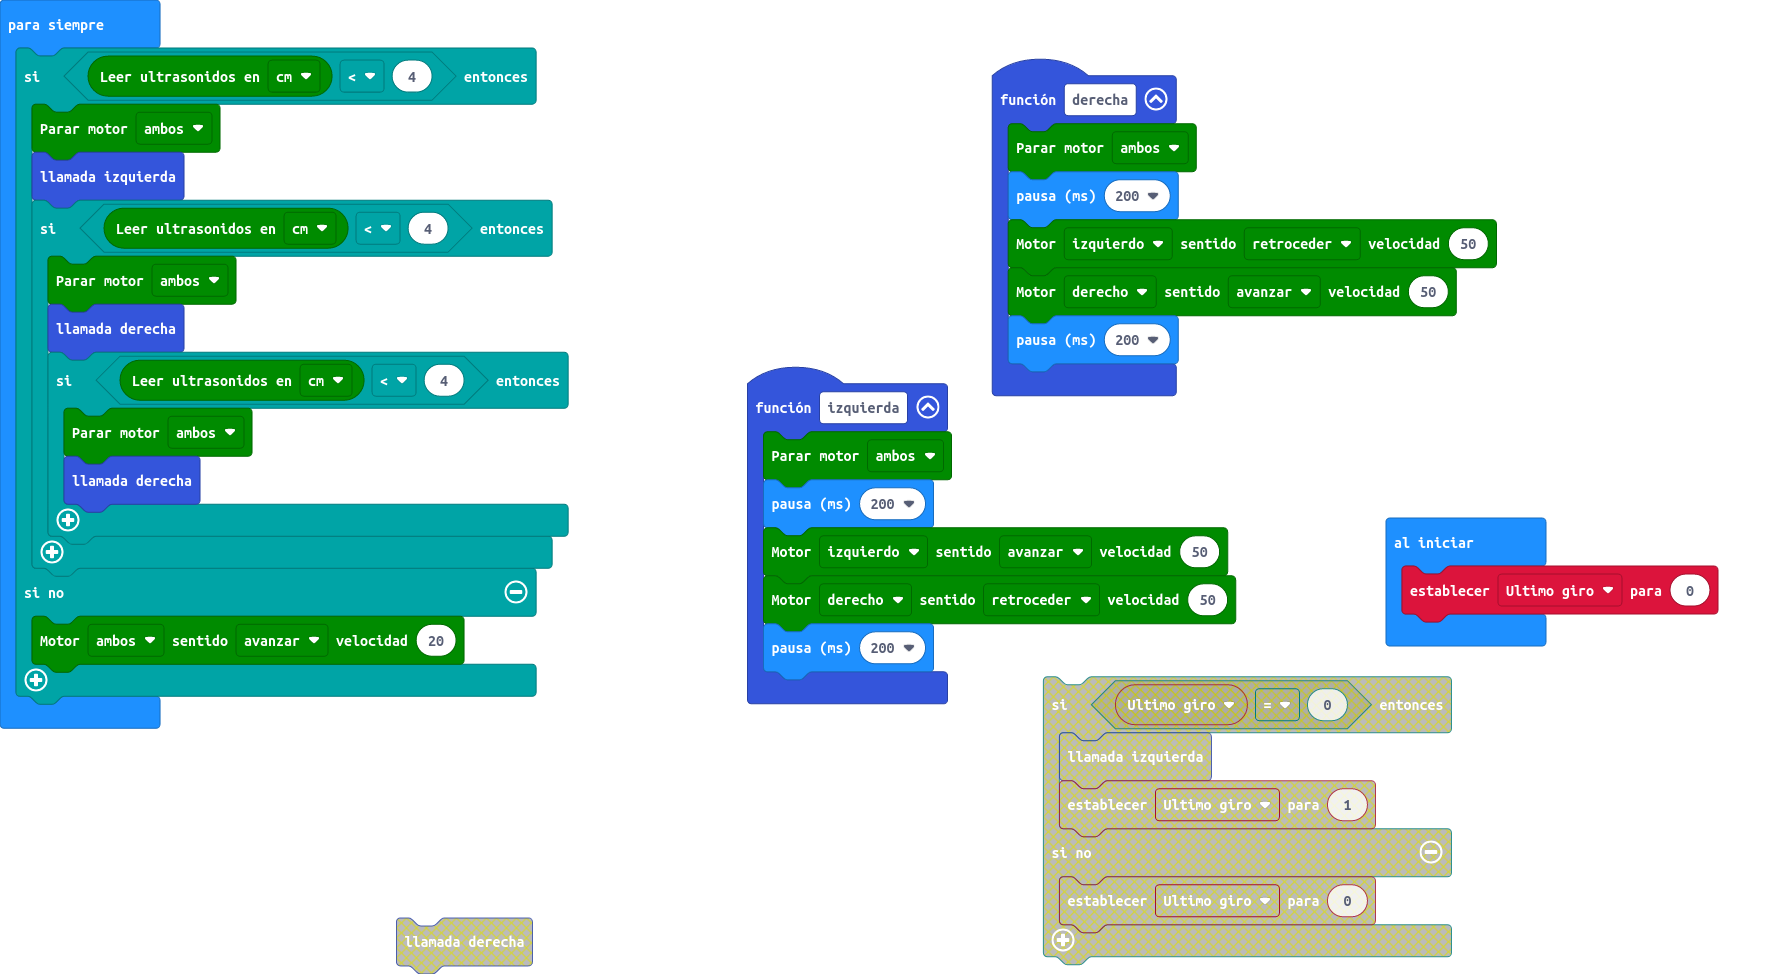
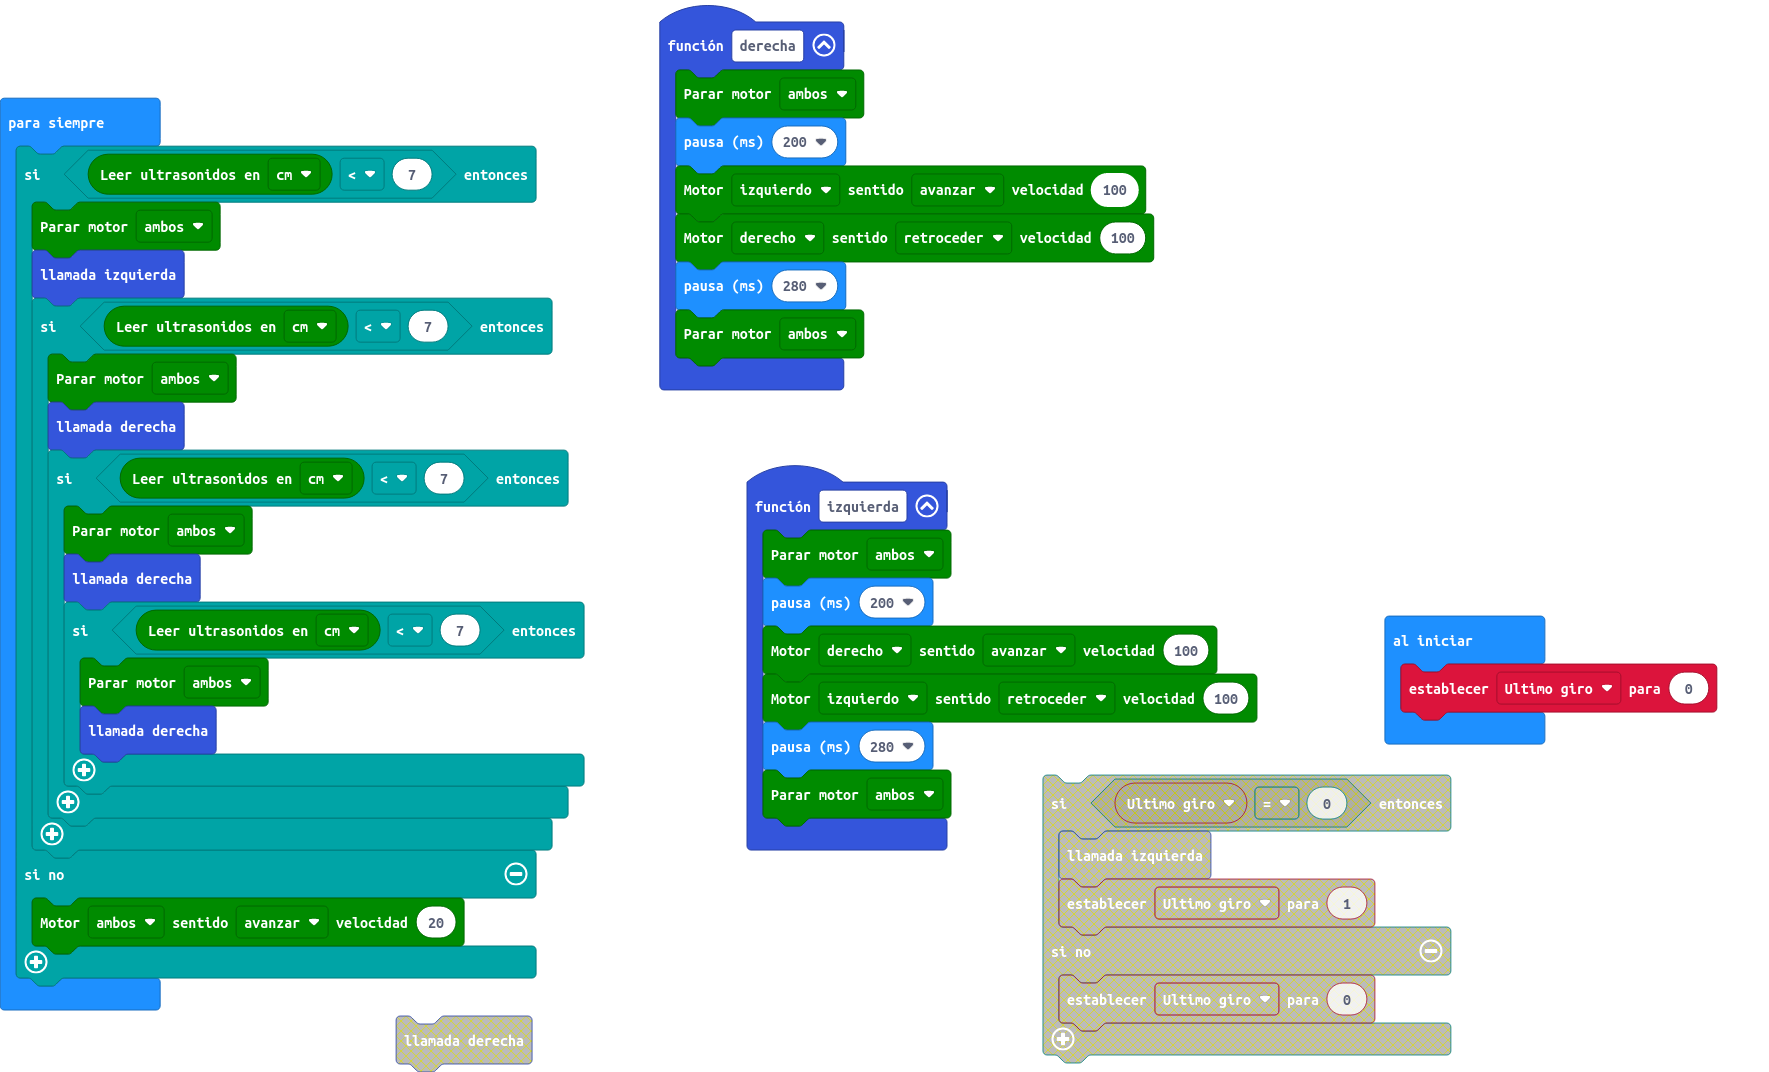
Actualizar main.blocks, main.ts

diff --git a/main.ts b/main.ts
@@ -1,28 +1,34 @@
 function derecha () {
     maqueen.motorStop(maqueen.Motors.All)
     basic.pause(200)
-    maqueen.motorRun(maqueen.Motors.M1, maqueen.Dir.CCW, 50)
-    maqueen.motorRun(maqueen.Motors.M2, maqueen.Dir.CW, 50)
-    basic.pause(200)
+    maqueen.motorRun(maqueen.Motors.M1, maqueen.Dir.CW, 100)
+    maqueen.motorRun(maqueen.Motors.M2, maqueen.Dir.CCW, 100)
+    basic.pause(280)
+    maqueen.motorStop(maqueen.Motors.All)
 }
 function izquierda () {
     maqueen.motorStop(maqueen.Motors.All)
     basic.pause(200)
-    maqueen.motorRun(maqueen.Motors.M1, maqueen.Dir.CW, 50)
-    maqueen.motorRun(maqueen.Motors.M2, maqueen.Dir.CCW, 50)
-    basic.pause(200)
+    maqueen.motorRun(maqueen.Motors.M2, maqueen.Dir.CW, 100)
+    maqueen.motorRun(maqueen.Motors.M1, maqueen.Dir.CCW, 100)
+    basic.pause(280)
+    maqueen.motorStop(maqueen.Motors.All)
 }
 let Ultimo_giro = 0
 basic.forever(function () {
-    if (maqueen.Ultrasonic(PingUnit.Centimeters) < 4) {
+    if (maqueen.Ultrasonic(PingUnit.Centimeters) < 7) {
         maqueen.motorStop(maqueen.Motors.All)
         izquierda()
-        if (maqueen.Ultrasonic(PingUnit.Centimeters) < 4) {
+        if (maqueen.Ultrasonic(PingUnit.Centimeters) < 7) {
             maqueen.motorStop(maqueen.Motors.All)
             derecha()
-            if (maqueen.Ultrasonic(PingUnit.Centimeters) < 4) {
+            if (maqueen.Ultrasonic(PingUnit.Centimeters) < 7) {
                 maqueen.motorStop(maqueen.Motors.All)
                 derecha()
+                if (maqueen.Ultrasonic(PingUnit.Centimeters) < 7) {
+                    maqueen.motorStop(maqueen.Motors.All)
+                    derecha()
+                }
             }
         }
     } else {
